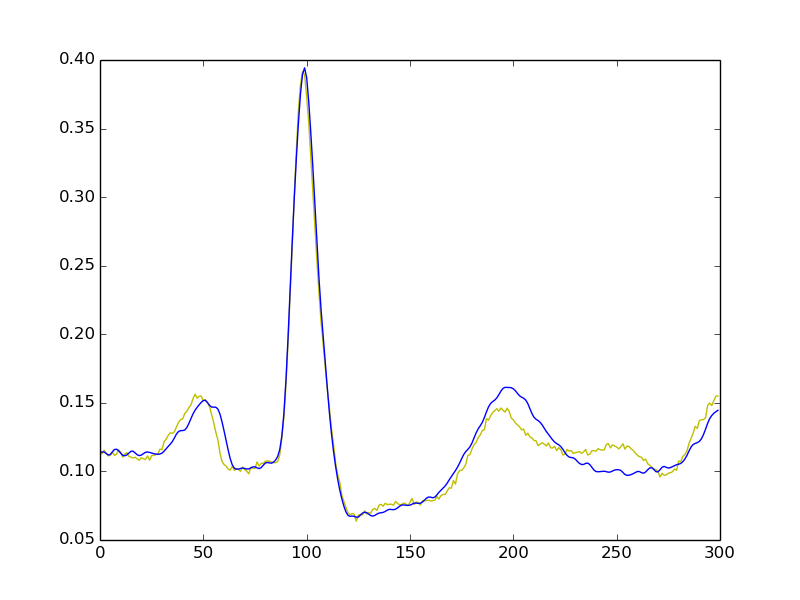
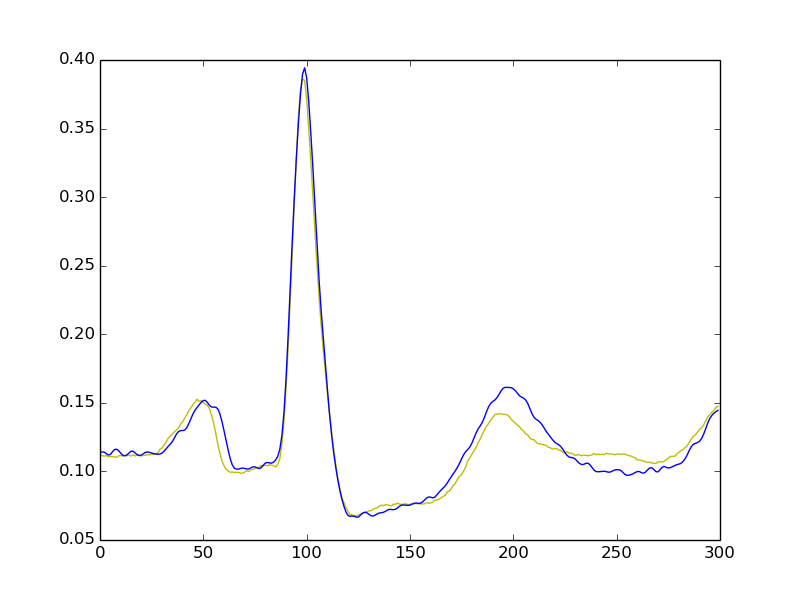
epochs 500

diff --git a/dA.py b/dA.py
@@ -262,7 +262,7 @@ class dA(object):
         return (cost, updates)
 
 
-def test_dA(learning_rate=0.1, training_epochs=200,
+def test_dA(learning_rate=0.3, training_epochs=500,
             dataset='mnist.pkl.gz',
             batch_size=1, output_folder='dA_plots'):
 
